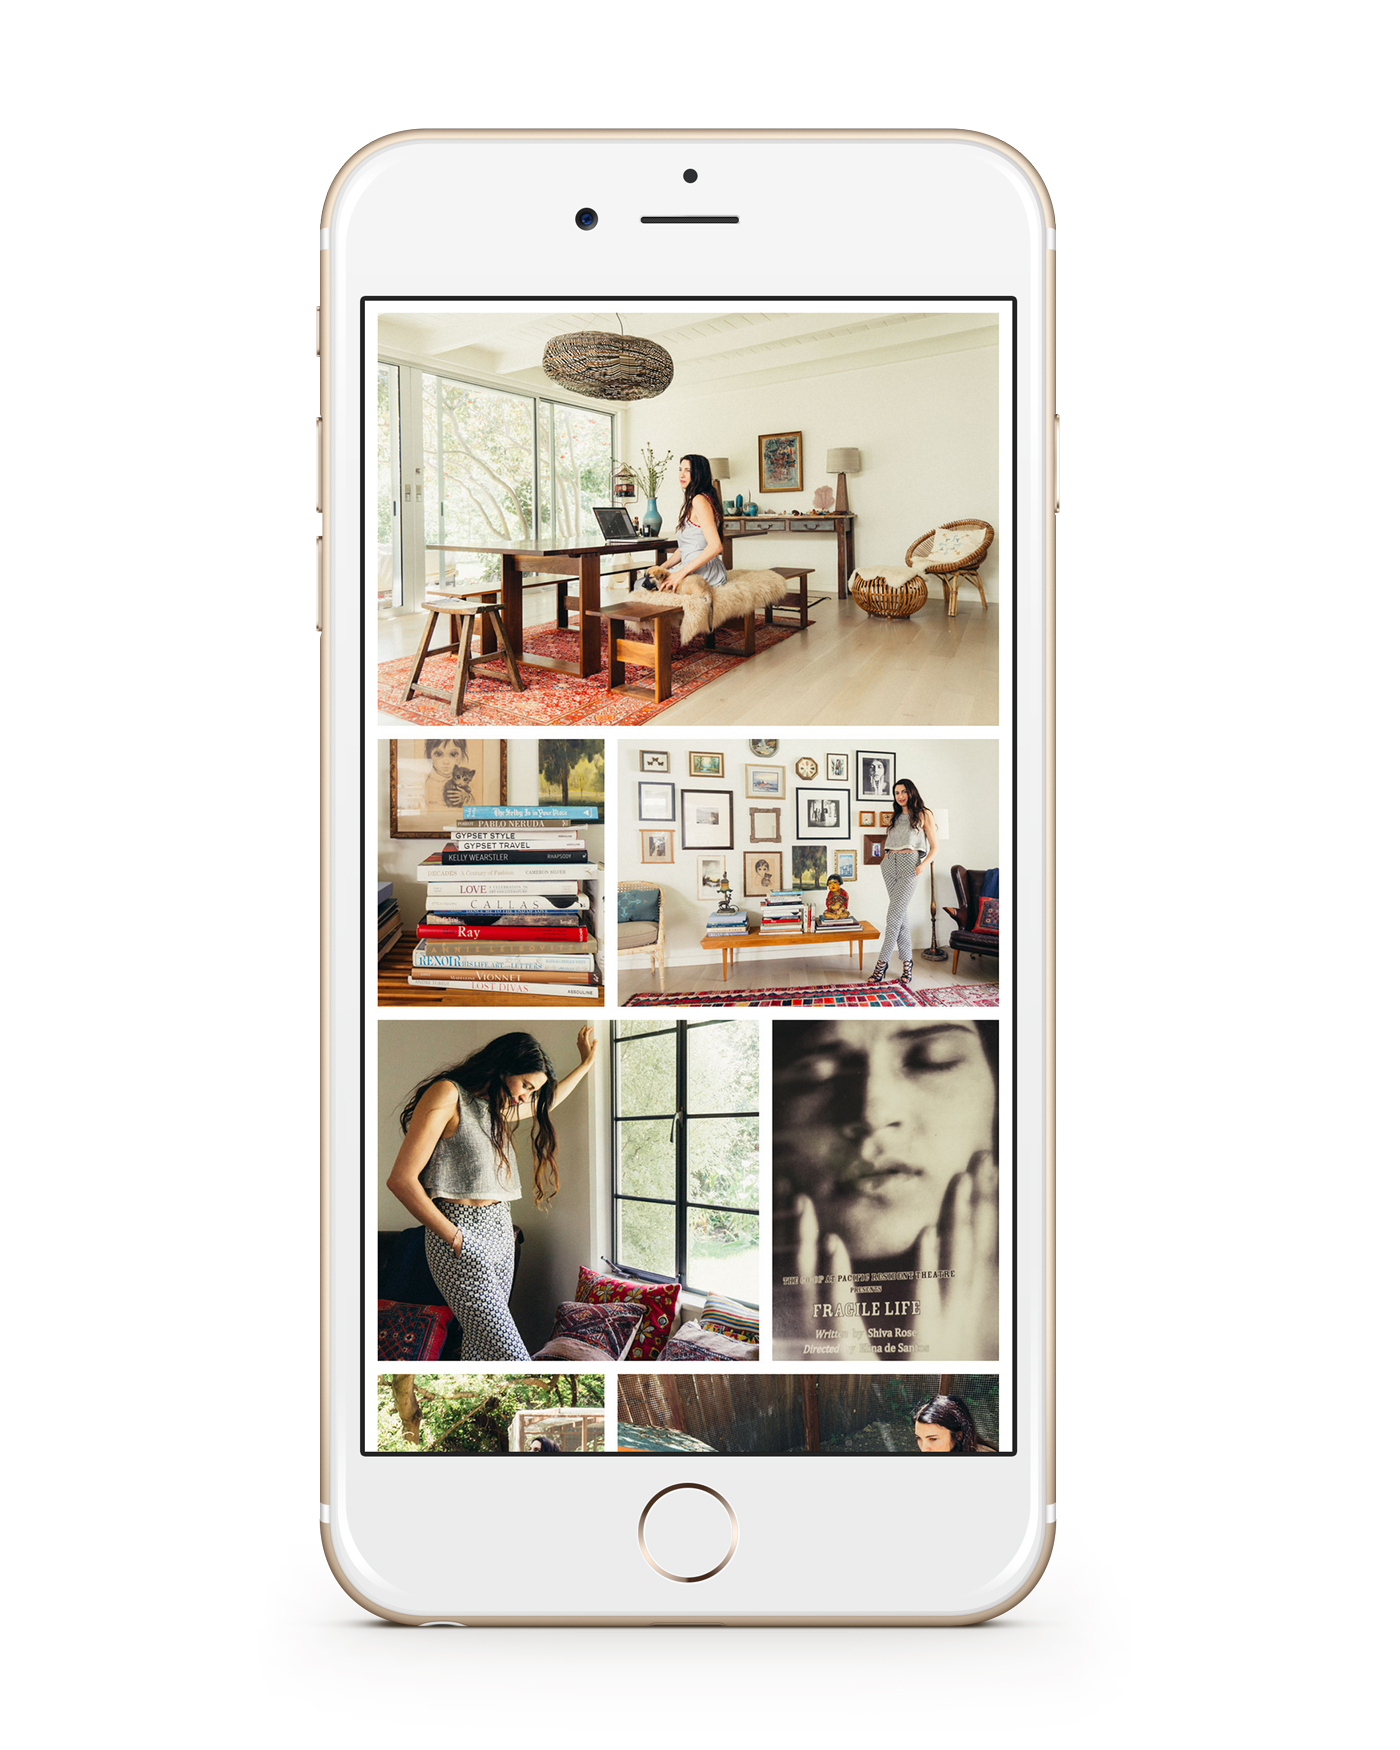
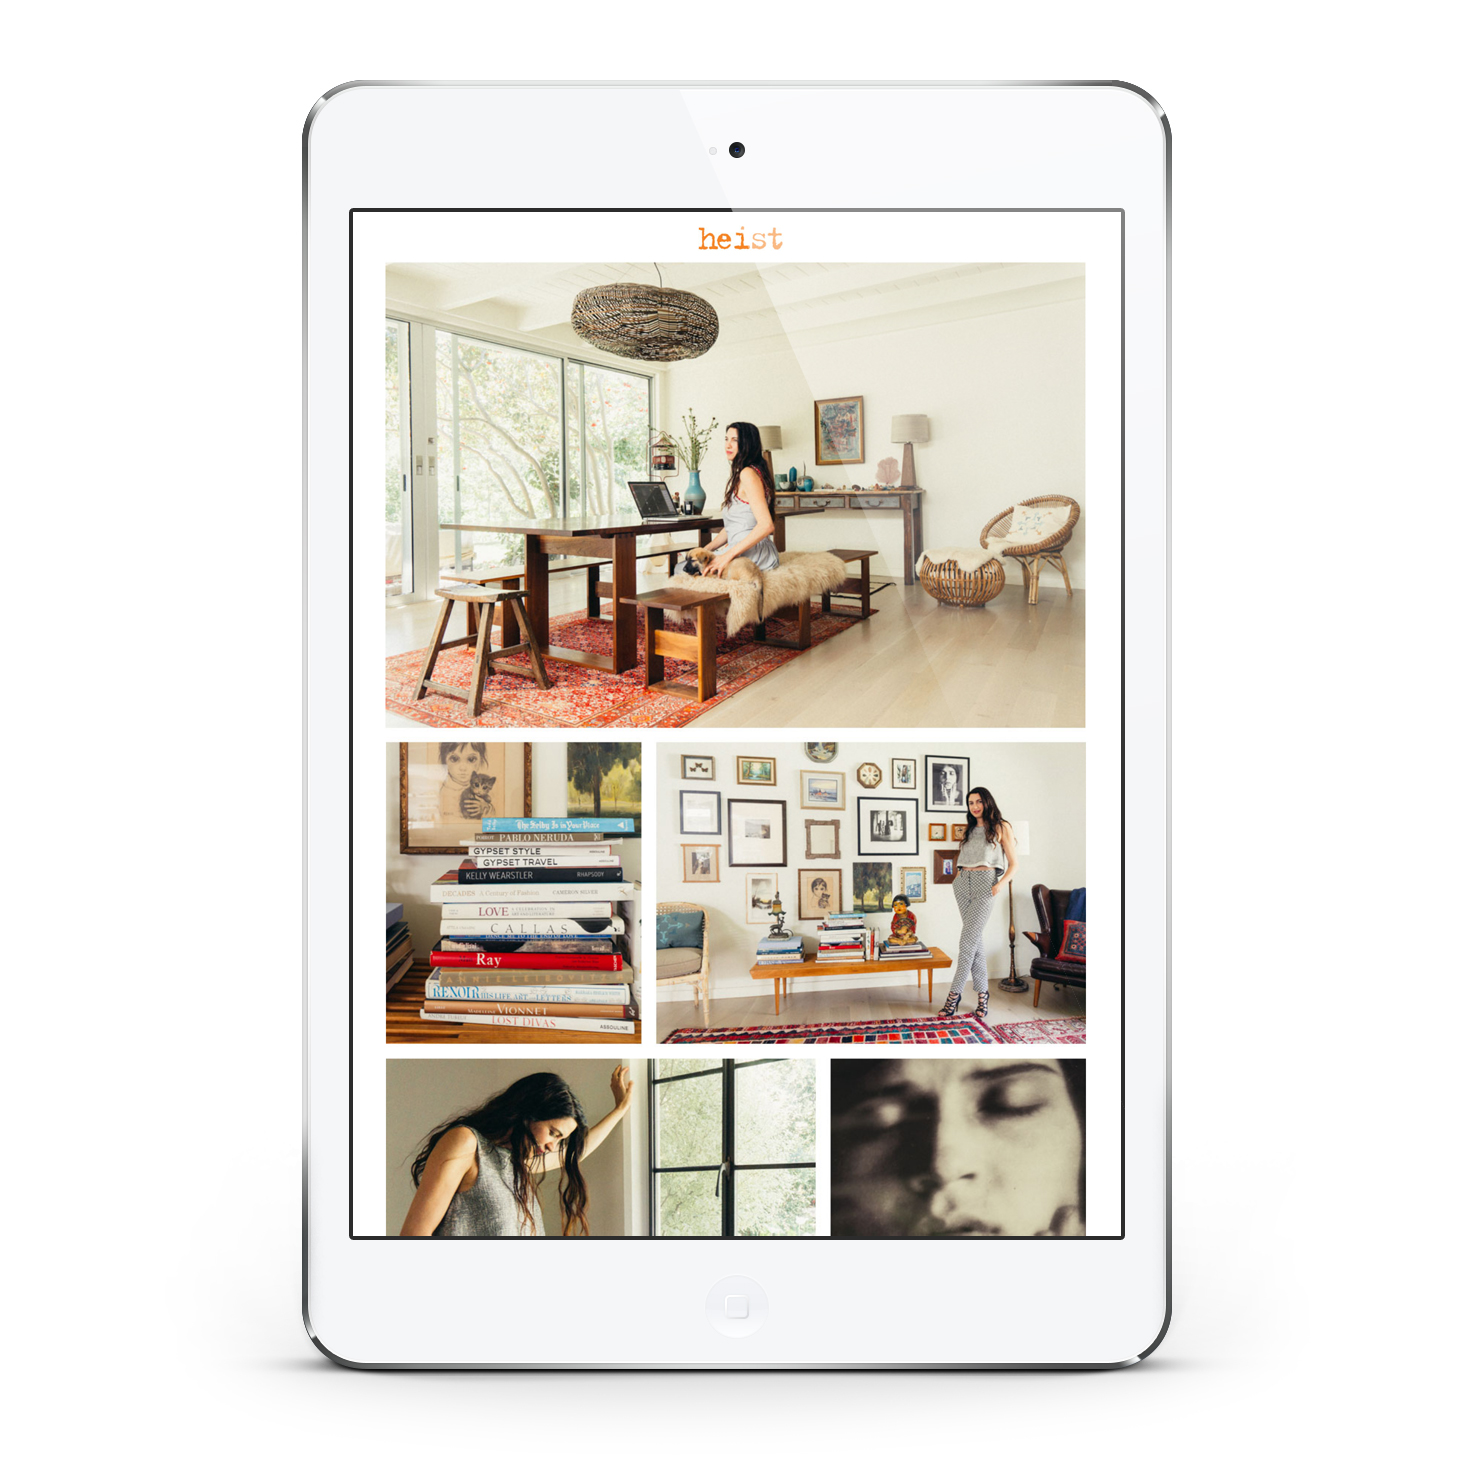
Updated Heist image and added Civilianaire to portfolio

diff --git a/index.html b/index.html
@@ -122,13 +122,21 @@
 
       }
 
-      .portfolio.heist img {
+      .portfolio.civ img {
 
-        left: 0;
-        width: 45%;
+        -webkit-transform: translateX( 85% );
+        transform: translateX( -15% );
+        width: 80%;
 
       }
 
+      .portfolio.heist img {
+
+        -webkit-transform: translateX( 80% );
+        transform: translateX( 80% );
+        left: 0;
+
+      }
 
       .portfolio.tmg img {
 
@@ -238,13 +246,25 @@
 
     </div>
 
-    <div class="portfolio right heist">
+    <div class="portfolio right civ">
+
+      <img src="images/saramote-civilianaire.jpg">
+
+      <h1>
+
+        Civilianaire
+
+      </h1>
+
+    </div>
+
+    <div class="portfolio left heist">
 
       <img src="images/saramote-heist.jpg">
 
       <h1>
 
-        Heist Boutique
+        Heist
 
       </h1>
 
@@ -256,7 +276,7 @@
 
       <h1>
 
-        Klurskin Skincare
+        Klurskin
 
       </h1>
 
